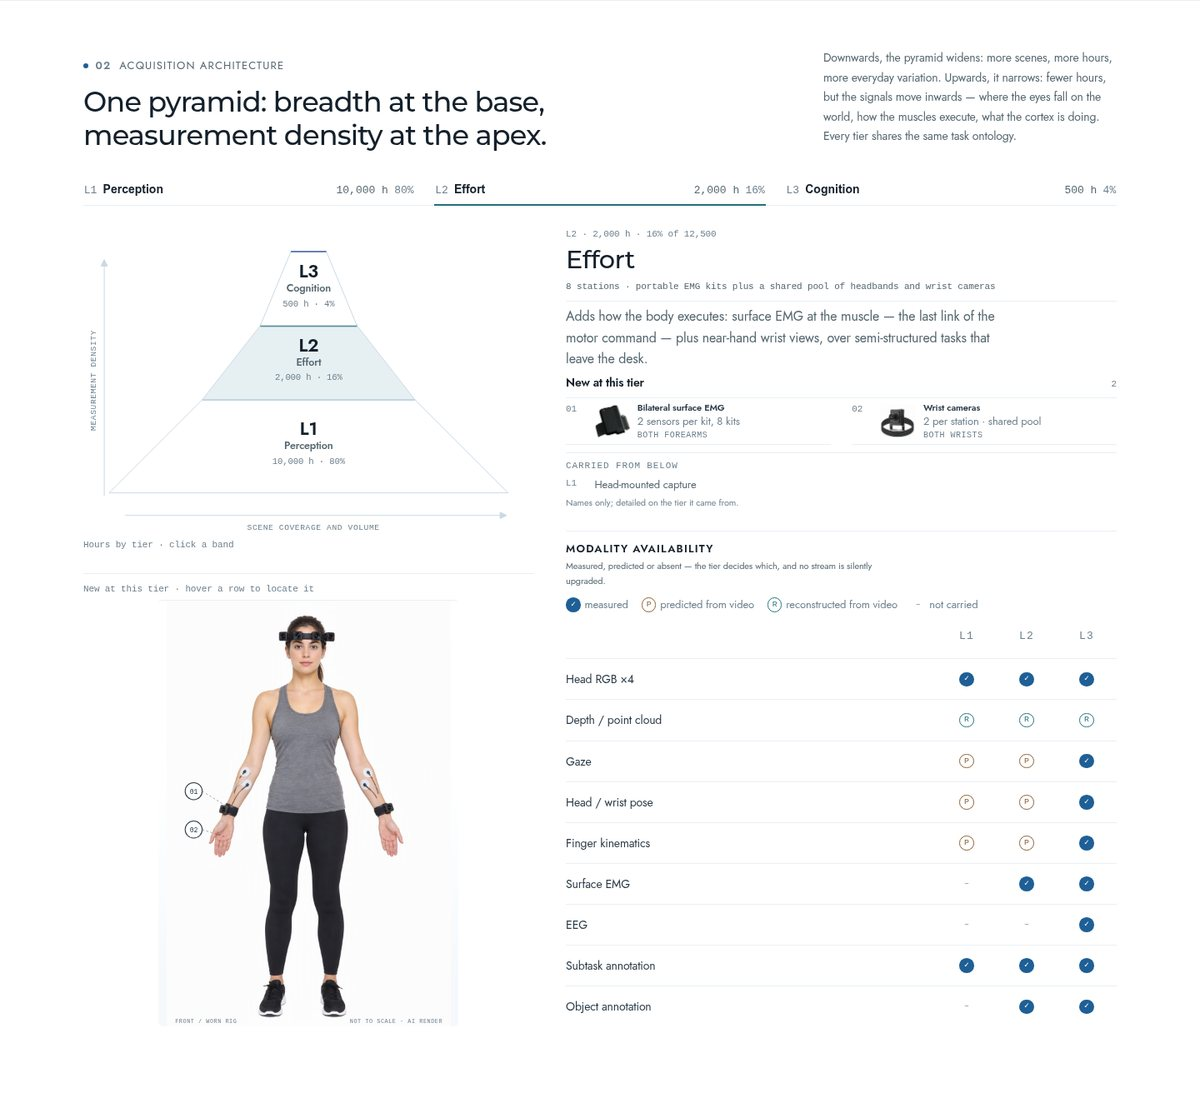
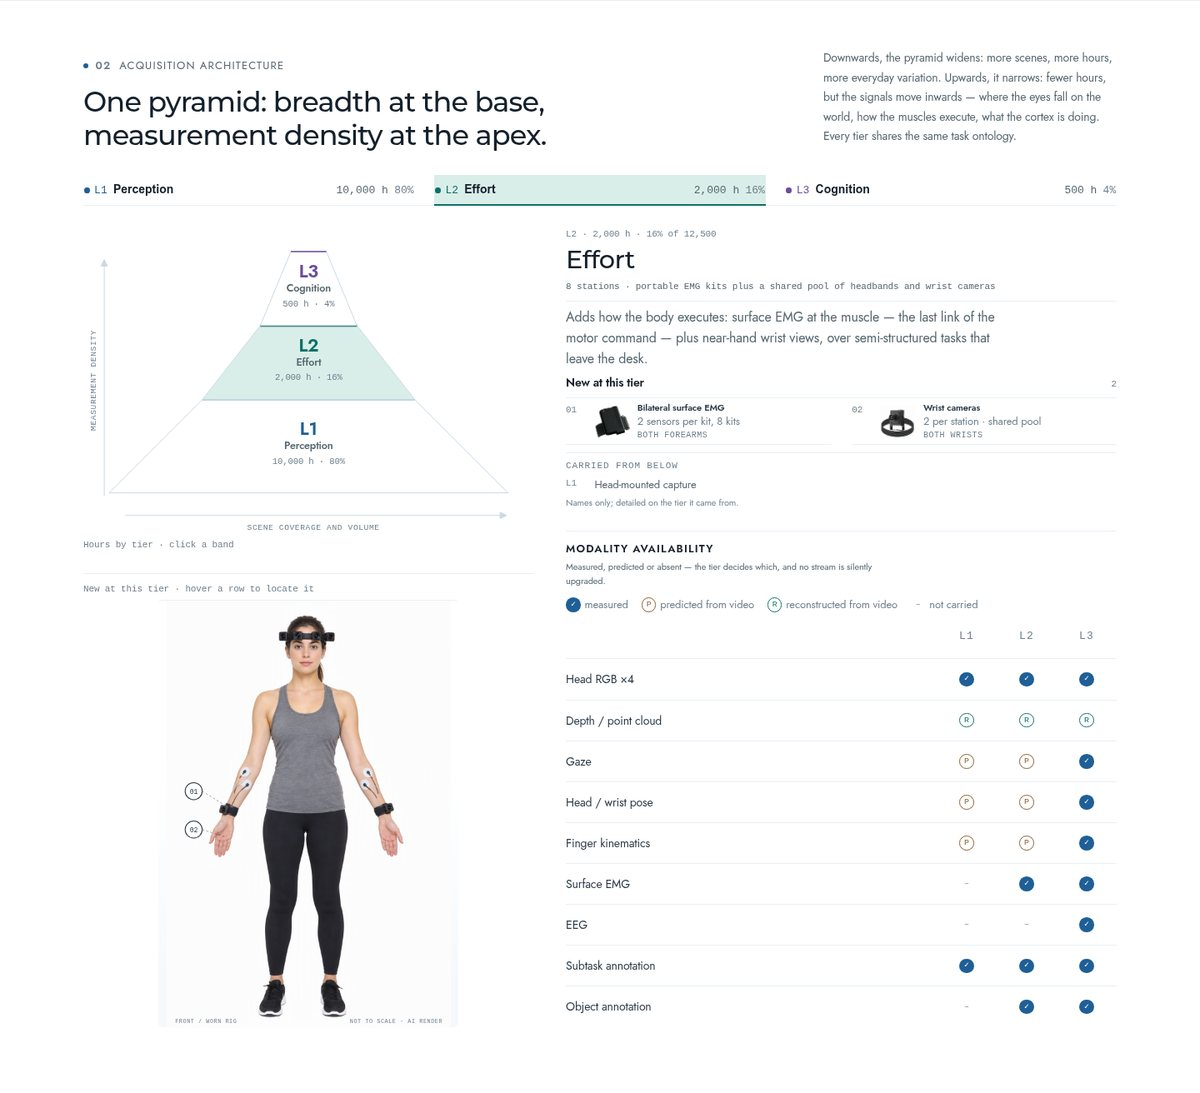
Strengthen L1-L3 color coding

diff --git a/src/sections/AcquisitionSection.vue b/src/sections/AcquisitionSection.vue
@@ -231,7 +231,27 @@ function metaOf(id: Tier['devices'][number]['id']) {
 .tabs button.tab--teal.active { border-bottom-color: var(--c-teal); }
 .tabs button.tab--violet.active { border-bottom-color: var(--c-violet); }
 .tab__row { display: flex; align-items: baseline; gap: 0.45rem; }
-.tab__id { font-size: var(--fs-micro); color: var(--ink-mute); }
+.tab__id {
+  display: inline-flex;
+  align-items: center;
+  gap: 0.35rem;
+  font-size: var(--fs-micro);
+  color: var(--ink-mute);
+}
+.tab__id::before {
+  content: '';
+  width: 0.42rem;
+  height: 0.42rem;
+  border-radius: 50%;
+  background: currentColor;
+  flex: none;
+}
+.tab--blue .tab__id { color: var(--c-blue); }
+.tab--teal .tab__id { color: var(--c-teal); }
+.tab--violet .tab__id { color: var(--c-violet); }
+.tabs button.active { background: var(--t-blue); }
+.tabs button.tab--teal.active { background: var(--t-teal); }
+.tabs button.tab--violet.active { background: var(--t-violet); }
 .tab__name { font-size: var(--fs-small); font-weight: 600; color: var(--ink); }
 .tab__hours { margin-left: auto; font-size: var(--fs-micro); color: var(--ink-soft); }
 .tab__share { font-size: var(--fs-micro); color: var(--ink-mute); }
@@ -288,6 +308,9 @@ function metaOf(id: Tier['devices'][number]['id']) {
 .band--blue .band__top { stroke: var(--c-blue); }
 .band--teal .band__top { stroke: var(--c-teal); }
 .band--violet .band__top { stroke: var(--c-violet); }
+.band--blue .band__id { fill: var(--c-blue); }
+.band--teal .band__id { fill: var(--c-teal); }
+.band--violet .band__id { fill: var(--c-violet); }
 .band:focus-visible { outline: none; }
 .band:focus-visible .band__face { stroke: var(--c-blue); stroke-width: 2; }
 

diff --git a/src/styles/tokens.css b/src/styles/tokens.css
@@ -57,17 +57,17 @@
   --night-3: #1d2f3f;
 
   /* ---- Modality accents (each ≥4.5:1 as text on white) ---- */
-  --c-blue: #1f5f96;      /* L1 / vision      — 7.4:1 */
-  --c-teal: #24707c;      /* L2 / gaze        — 5.9:1 */
-  --c-violet: #3c5c9e;    /* L3 / neural      — 6.8:1 */
+  --c-blue: #1f5f96;      /* L1 / vision      — 6.7:1 */
+  --c-teal: #0f6f68;      /* L2 / gaze        — 6.0:1 */
+  --c-violet: #6a4c9c;    /* L3 / neural      — 6.7:1 */
   --c-amber: #8a6136;     /* EMG              — 5.6:1 */
   --c-rose: #99505b;      /* events / errors  — 6.2:1 */
   --c-slate: #4f6272;     /* neutral data     — 6.4:1 */
 
   /* Tint fills (non-text use only) */
-  --t-blue: #e9f1f8;
-  --t-teal: #e6f0f3;
-  --t-violet: #eaeef8;
+  --t-blue: #dfeaf6;
+  --t-teal: #d9eee9;
+  --t-violet: #e8e0f3;
   --t-rose: #f6eaec;
   --t-amber: #f5efe4;
 
